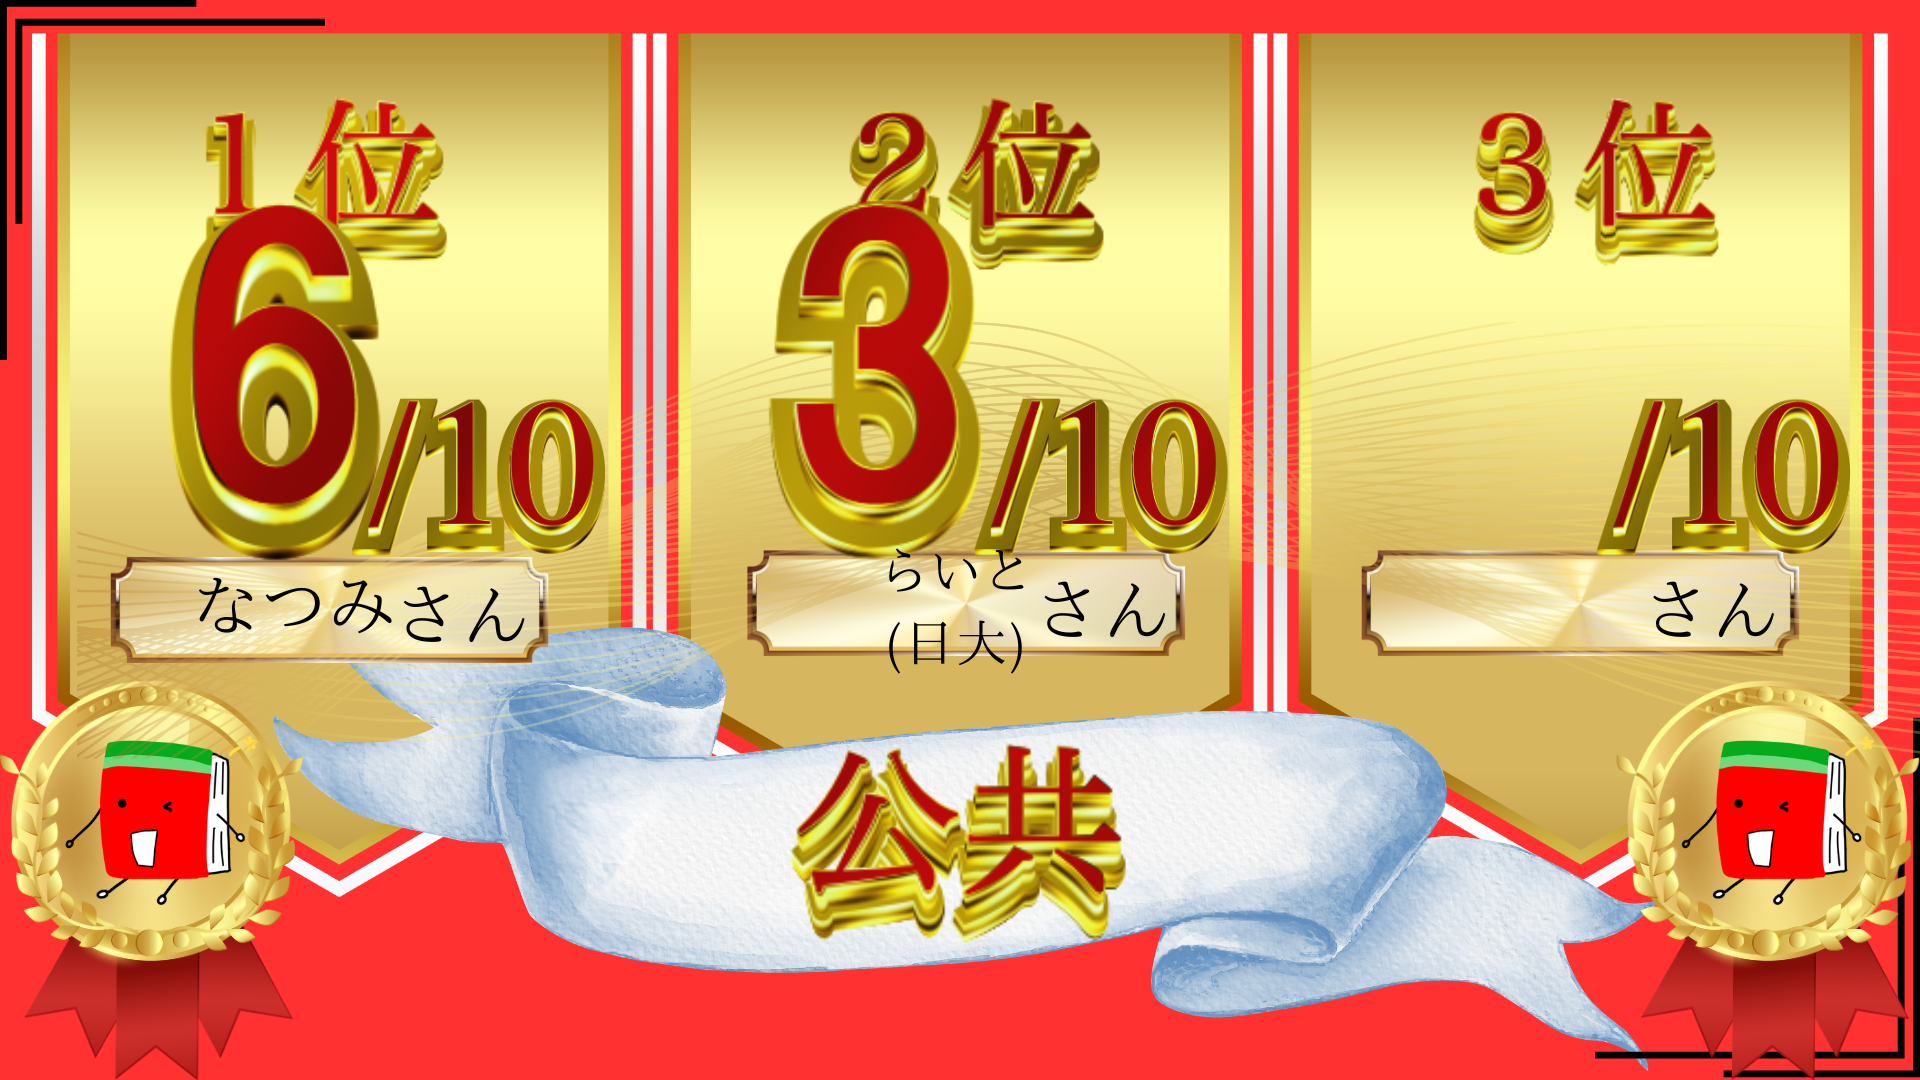
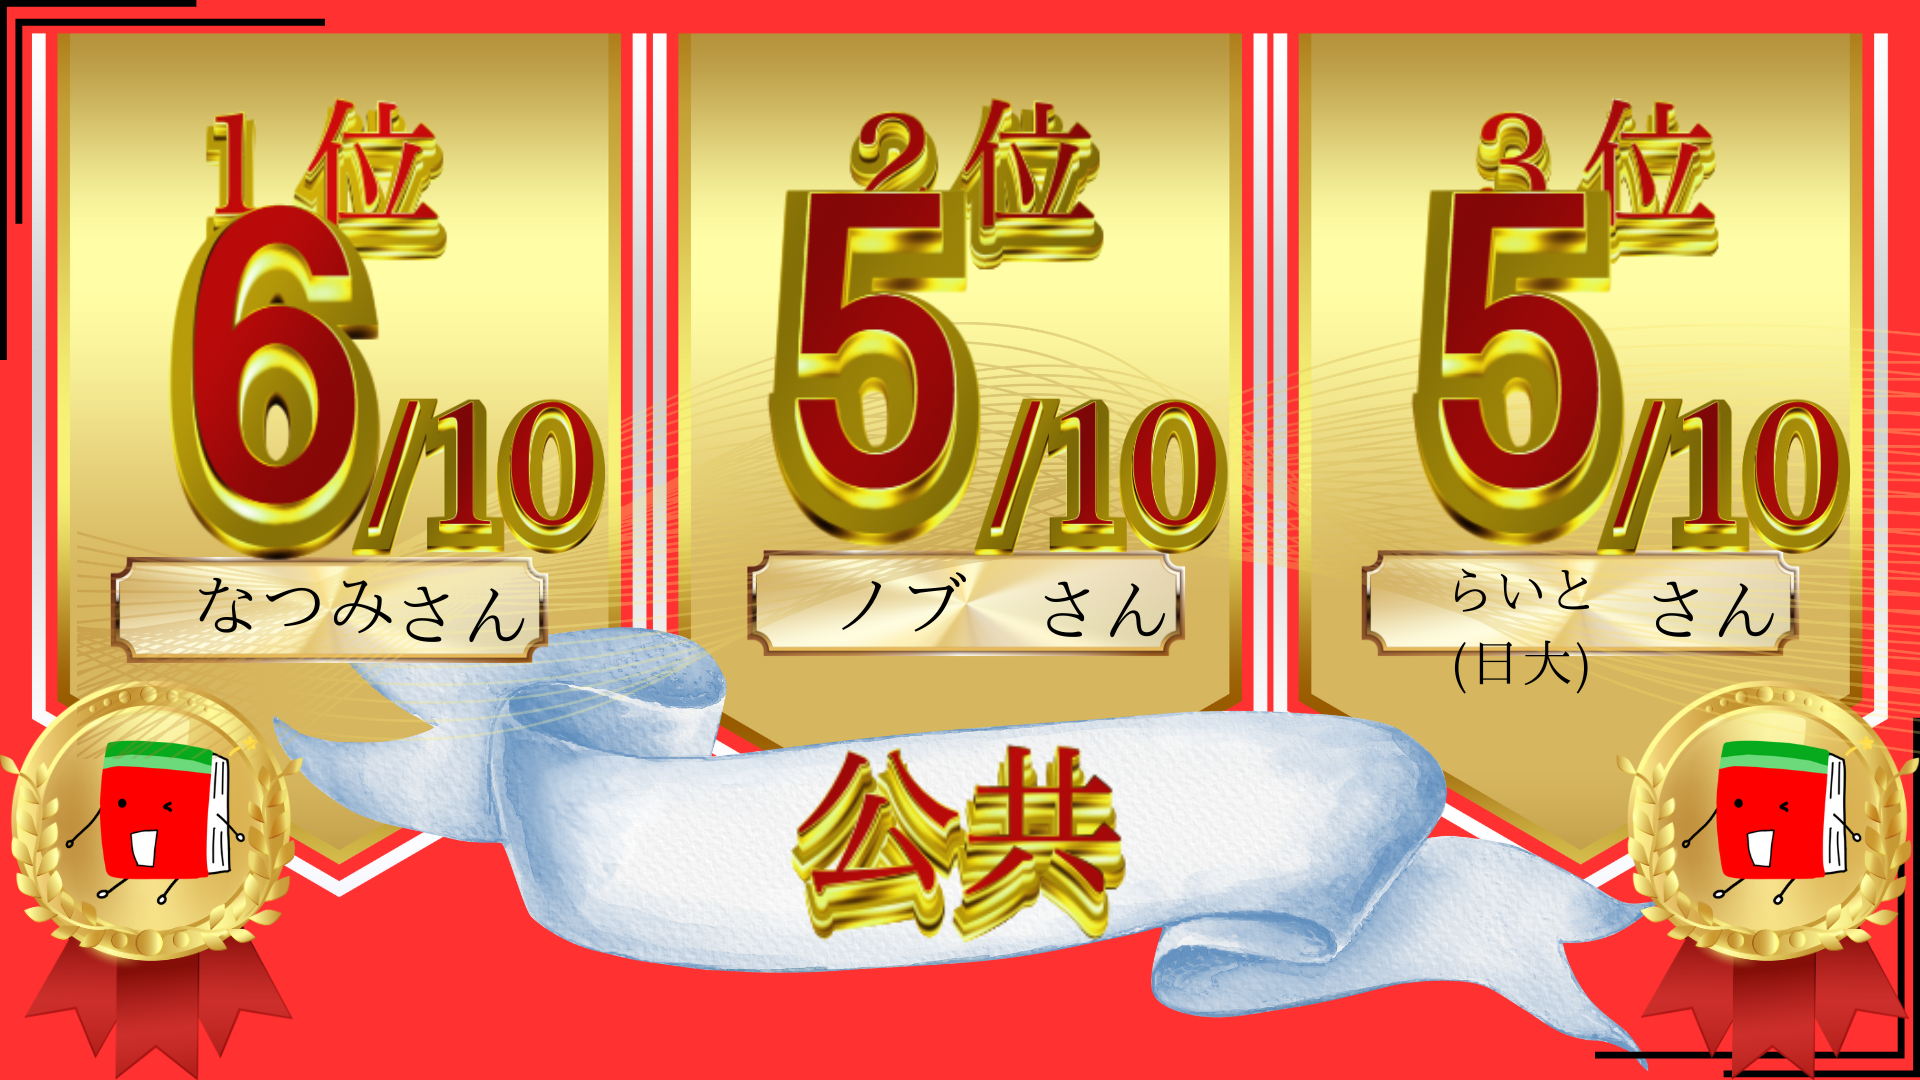
20241103_7

Changed region(s): [[0.375, 0.1528, 0.5312, 0.6111], [0.7188, 0.1528, 0.8438, 0.5194], [0.75, 0.5806, 0.8125, 0.6417]]

diff --git a/Minasai2024/index.html b/Minasai2024/index.html
@@ -150,7 +150,7 @@
         
         <section id="speakers" class="wra">
             <h2>ランキング</h2>
-            <h3>日曜日11時30分更新</h3>
+            <h3>日曜日13時15分更新</h3>
             <div class="slider">
                 <img src="./images/Ranking_math.png" alt="数学">
                 <img src="./images/Ranking_japanese.png" alt="国語">
@@ -162,16 +162,6 @@
             </div>
     
             
-            <h3>昨日最終結果</h3>
-            <div class="slider">
-                <img src="./images/Ranking_math_1.png" alt="数学">
-                <img src="./images/Ranking_japanese_1.png" alt="国語">
-                <img src="./images/Ranking_english_1.png" alt="英語">
-                <img src="./images/Ranking_japan_1.png" alt="日本史">
-                <img src="./images/Ranking_world_1.png" alt="世界史">
-                <img src="./images/Ranking_public_1.png" alt="公共">
-                <img src="./images/Ranking_geography_1.png" alt="地理">
-            </div>
         </section>
         
 
